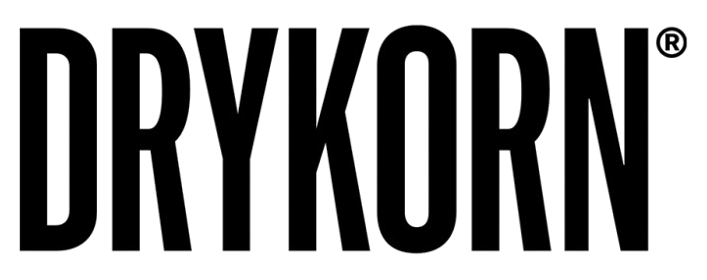
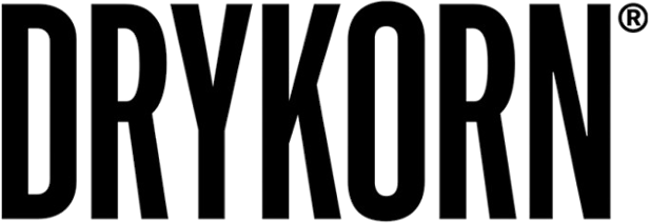
Brands ; Social tab
Brands have now no background;
Social tab is now corrected.

diff --git a/css/style.css b/css/style.css
@@ -24,8 +24,14 @@ body {
     width: auto !important;
 }
 
-#fblike .fb_edge_comment_widget iframe {
-    width: auto !important;
+/* This element holds injected scripts inside iframes that in some cases may stretch layouts. So, we're just hiding it. */
+#fb-root {
+  display: none;
+}
+ 
+/* To fill the container and nothing else */
+.fb_iframe_widget, .fb_iframe_widget span, .fb_iframe_widget span iframe[style] {
+  width: 100% !important;
 }
 
 .zinfowindow{

diff --git a/index.php b/index.php
@@ -102,16 +102,23 @@ function initialize() {
     
   </div>
 
-
+<div class="row">
+    <div class="large-12 colums">
+      <h1> Willkommen zu Wilhardt Mode </h1>
+    </div>
+</div>
   <div class="row">
     <div class="large-12 columns">
 
     <!-- Desktop Slider -->
       <div class="hide-for-small">
         <div id="featured" data-orbit>
-              <img src="img/top1.png" alt="BlaBlaBLa">
+              <img src="img/top1.jpg" alt="BlaBlaBLa">
               <img src="img/top2.jpg" alt="slide image">
               <img src="img/top3.jpg" alt="slide image">
+              <img src="img/top4.jpg" alt="BlaBlaBLa">
+              <img src="img/top5.jpg" alt="slide image">
+              <img src="img/top6.jpg" alt="slide image">
        
         </div>
          <!-- Timer and Play/Pause Button -->
@@ -147,38 +154,35 @@ function initialize() {
 
     <!-- Content -->
 
-        <div class="large-8 columns">
+        <div class="large-12 columns">
           <div class="panel radius">
 
           <div class="row">
-          <div class="large-6 small-6 columns">
+          <div class="large-6 columns">
 
             <h4>News</h4><hr/>
-            <h5 class="subheader"> Wir Haben Sommer Verkauf ! 
-            </h5>
-          <div class="show-for-small" align="center">
-            <a href="#" class="small radius button">Call To Action!</a><br>
-
-            <a href="#" class="small radius button">Call To Action!</a>
-          </div>
-
-          </div>
-          <div class="large-6 small-6 columns">
+            <h5 class="subheader"> Wir Haben Sommer Verkauf ! </h5>
             <p>Suspendisse ultrices ornare tempor. Aenean eget ultricies libero. Phasellus non ipsum eros. Vivamus at dignissim massa. Aenean dolor libero, blandit quis interdum et, malesuada nec ligula. Nullam erat erat, eleifend sed pulvinar ac. Suspendisse ultrices ornare tempor. Aenean eget ultricies libero.
-          </p>
+           
+          </div>
+            <div class="large-6 columns">
+               <ul class="pricing-table radius">
+                  <li class="title">Öffnungszeiten</li>
+                  <li class="price">Mo - Fr: 8:30 - 18:30 </li>
+                  <li class="price">Sa: 9:30 - 14:00 </li>
+
+                </ul> 
+            </div>
+        </div>
+      
+           
         </div>
 
         </div>
         </div>
-        </div>
+        
 
-        <div class="large-4 columns">
-          <ul class="pricing-table radius">
-            <li class="title">Öffnungszeiten</li>
-            <li class="price">Mo - Fr: 8:30 - 18:30. </li>
-            <li class="price">Sa: 9:30 - 14:00. </li>
-          </ul>  
-        </div>
+        
 
     <!-- End Content -->
 
@@ -198,7 +202,7 @@ function initialize() {
                     </div>
 
                      <div class="small-2 small-2 columns">
-                      <img src="brands/mac.gif" />
+                      <img src="brands/mac.png" />
                  
                     </div>
 
@@ -211,15 +215,12 @@ function initialize() {
                   
                     </div>
                     <div class="small-2 small-2 columns">
-                      <img src="brands/scod.gif" />
+                      <img src="brands/scod.png" />
                     
                     </div>
+                   
                     <div class="small-2 small-2 columns">
-                      <img src="brands/streeone.png"/>
-                      
-                    </div>
-                    <div class="small-2 small-2 columns">
-                      <img src="brands/tamaris.jpeg"/>
+                      <img src="brands/wellensteyn.png"/>
                     </div>
               <!-- End Thumbnails -->  
               </div>
@@ -256,8 +257,8 @@ function initialize() {
 
 <div class="row">
           <h4><a href="#contactos">Social</a></h4>
-          <div id="contactos" class="panel radius">
-                <div class="fb-like-box" data-href="https://www.facebook.com/pages/Wildhardt-womens-wear-Wiesbaden/314463841687" data-width="400px" data-height="The pixel height of the plugin" data-colorscheme="light" data-show-faces="true" data-header="true" data-stream="true" data-show-border="false"></div>
+          <div id="social" class="panel radius">
+                <div class="fb-like-box" data-href="https://www.facebook.com/pages/Wildhardt-womens-wear-Wiesbaden/314463841687" data-width="400" data-height="The pixel height of the plugin" data-colorscheme="light" data-show-faces="true" data-header="true" data-stream="true" data-show-border="false"></div>
           </div>
 </div>
 
